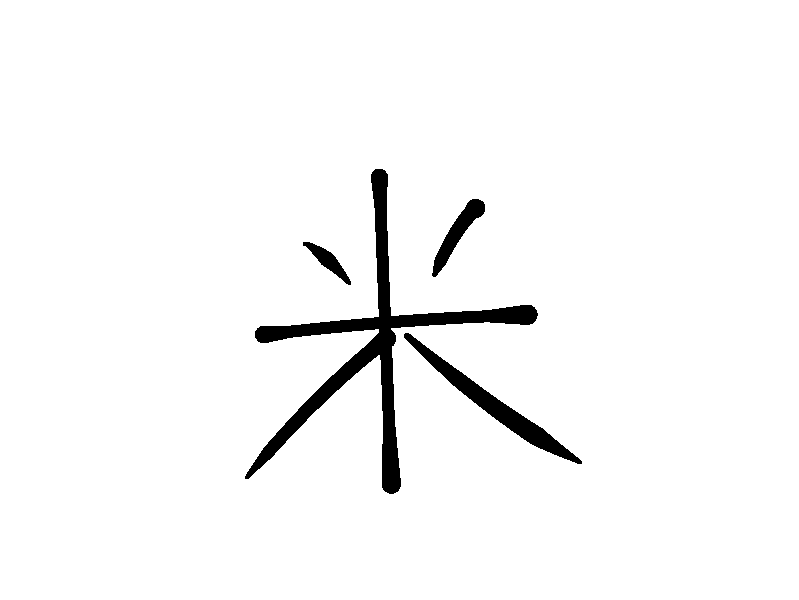
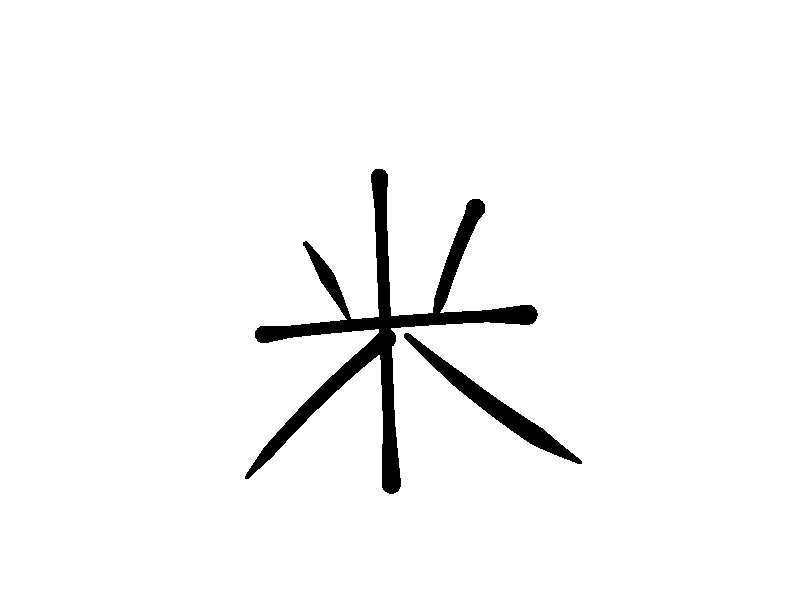
8 carry-overs second-iteration fixes: 0 promote, 3 FROZEN per 3-attempt rule.
Detailed iteration results:
- c55 力 (att 2): pie.from.y lowered to heng level. Panel 0/3 — pie too short / hook still invisible.
- c56 山 (att 3, FROZEN): shu.to.y set to baseline_y. Uprights now sit on base, but center vertical off-center. attempts/cycle_56/FROZEN.md.
- c57 自 (att 2, NEAR): pie tail snapped to box-TL, internal hengs extended to right wall. Panel 2/3 (1 NO on heng count ambiguity).
- c58 个 (att 2): 3-way apex_share. Panel 1/3 — shu visually detached due to dunbi blob.
- c60 古 (att 2): tangent-snap on small 口 corners. Panel 0/3 — 十's shu pierces into 口.
- c61 米 (att 2): top dot tails lowered to heng_y. Panel 1/3 — lower pie/na too long.
- c63 出 (att 3, FROZEN): tried correct shu_zhe+shu+shu+shu_zhe+shu decomp. MMH's s1/s4 are U-shape strokes, not L-corner shu_zhe — primitive can't render. attempts/cycle_63/FROZEN.md.
- c64 头 (att 3, FROZEN): lifted top dians above pie apex. s2 went off-canvas. attempts/cycle_64/FROZEN.md.

Honest summary: joint taxonomy + apex_share + per-joint-class panel summaries are validated (牛 立 八 人 mastered cleanly with this infrastructure). These 8 character failures expose harder edge cases that need either primitive-level fixes (力 hook visibility), brushwork compensation (个 dunbi blob), or new primitive types (出 U-shape). Bank stays at 41. to_be_learned.md updated with specific next-attempt plans for the 5 unfrozen cycles.

Changed region(s): [[0.5407, 0.36, 0.6008, 0.54], [0.3905, 0.39, 0.4506, 0.54]]

diff --git a/runs/run_6/attempts/cycle_63/generated.py b/runs/run_6/attempts/cycle_63/generated.py
@@ -1,4 +1,4 @@
-"""出 (chu) — c63 fix. raw MMH."""
+"""出 (chu) — c63 attempt-2-or-3. Correct decomp: shu_zhe+shu+shu+shu_zhe+shu (per MMH polyline shapes)"""
 import io, os, sys, turtle
 from PIL import Image
 WIDTH, HEIGHT = 800, 600
@@ -6,12 +6,11 @@ OUT_DIR = os.path.dirname(os.path.abspath(__file__))
 SB = os.path.join(OUT_DIR, '..', '..', 'success_bank', 'code')
 sys.path.insert(0, SB)
 from _anchor import anchor_to_xy
-from heng import draw_heng
 from shu import draw_shu
+from shu_zhe import draw_shu_zhe
 
 def save_canvas_to_png(screen, path):
-    canvas = screen.getcanvas()
-    ps = canvas.postscript(colormode="color")
+    canvas = screen.getcanvas(); ps = canvas.postscript(colormode="color")
     img = Image.open(io.BytesIO(ps.encode("utf-8")))
     img.load(scale=1); img.convert("RGBA").save(path, "PNG")
 
@@ -21,10 +20,10 @@ def reset(t):
 
 def task_01(t, screen):
     reset(t)
-    draw_heng(t, ('ML', 0.476, 0.156), ('MR', 0.38, 0.576))
+    draw_shu_zhe(t, ('ML', 0.476, 0.156), ('ML', 0.476, 0.576), ('MR', 0.38, 0.576))
     draw_shu(t, ('TR', 0.512, 0.94), ('MR', 0.472, 0.956))
     draw_shu(t, ('TC', 0.344, 0.26), ('BC', 0.456, 1.024))
-    draw_heng(t, ('BL', 0.488, 0.444), ('BR', 0.524, 1.02))
+    draw_shu_zhe(t, ('BL', 0.488, 0.444), ('BL', 0.488, 1.02), ('BR', 0.524, 1.02))
     draw_shu(t, ('BR', 0.488, 0.408), ('BR', 0.72, 1.3))
     save_canvas_to_png(screen, os.path.join(OUT_DIR, "01_出.png"))
 

diff --git a/runs/run_6/attempts/cycle_57/generated.py b/runs/run_6/attempts/cycle_57/generated.py
@@ -1,4 +1,4 @@
-"""自 (zi) — c57. Raw MMH + corner-by-type."""
+"""自 (zi) — c57 attempt-2-or-3. pie.tail snapped to box-TL; internal hengs extended to box right wall"""
 import io, os, sys, turtle
 from PIL import Image
 WIDTH, HEIGHT = 800, 600
@@ -12,8 +12,7 @@ from pie import draw_pie
 from shu import draw_shu
 
 def save_canvas_to_png(screen, path):
-    canvas = screen.getcanvas()
-    ps = canvas.postscript(colormode="color")
+    canvas = screen.getcanvas(); ps = canvas.postscript(colormode="color")
     img = Image.open(io.BytesIO(ps.encode("utf-8")))
     img.load(scale=1); img.convert("RGBA").save(path, "PNG")
 
@@ -23,11 +22,11 @@ def reset(t):
 
 def task_01(t, screen):
     reset(t)
-    draw_pie(t, ('TC', 0.308, 0.224), ('C', 0.068, 0.044))
+    draw_pie(t, ('TC', 0.308, 0.224), ('ML', 0.664, 0.016))
     draw_shu(t, ('ML', 0.664, 0.016), ('BL', 0.764, 1.252))
     draw_heng_zhe(t, ('ML', 0.92, 0.112), ('C', 0.96, 0.112), ('BC', 0.96, 1.132))
-    draw_heng(t, ('ML', 0.912, 0.864), ('C', 0.796, 0.704))
-    draw_heng(t, ('BL', 0.912, 0.46), ('BC', 0.812, 0.332))
+    draw_heng(t, ('ML', 0.912, 0.864), ('C', 0.96, 0.704))
+    draw_heng(t, ('BL', 0.912, 0.46), ('BC', 0.96, 0.332))
     draw_heng(t, ('BL', 0.868, 1.176), ('BR', 0.048, 1.048))
     save_canvas_to_png(screen, os.path.join(OUT_DIR, "01_自.png"))
 

diff --git a/runs/run_6/attempts/cycle_60/generated.py b/runs/run_6/attempts/cycle_60/generated.py
@@ -1,4 +1,4 @@
-"""古 (gu) — c60. Raw MMH + corner-by-type."""
+"""古 (gu) — c60 attempt-2-or-3. Tangent-snap 古 bottom 口 corners (small-box compensation)"""
 import io, os, sys, turtle
 from PIL import Image
 WIDTH, HEIGHT = 800, 600
@@ -11,8 +11,7 @@ from heng_zhe import draw_heng_zhe
 from shu import draw_shu
 
 def save_canvas_to_png(screen, path):
-    canvas = screen.getcanvas()
-    ps = canvas.postscript(colormode="color")
+    canvas = screen.getcanvas(); ps = canvas.postscript(colormode="color")
     img = Image.open(io.BytesIO(ps.encode("utf-8")))
     img.load(scale=1); img.convert("RGBA").save(path, "PNG")
 
@@ -25,8 +24,8 @@ def task_01(t, screen):
     draw_heng(t, ('ML', -0.044, 0.56), ('MR', 1.184, 0.472))
     draw_shu(t, ('TC', 0.372, 0.28), ('BC', 0.26, 0.352))
     draw_shu(t, ('BL', 0.6, 0.42), ('BL', 0.968, 1.3))
-    draw_heng_zhe(t, ('BL', 0.892, 0.444), ('BC', 0.944, 0.444), ('BC', 0.944, 1.072))
-    draw_heng(t, ('BC', 0.048, 1.232), ('BR', 0.22, 1.24))
+    draw_heng_zhe(t, ('BL', 0.6, 0.444), ('BC', 0.944, 0.444), ('BC', 0.944, 1.072))
+    draw_heng(t, ('BL', 0.968, 1.232), ('BC', 0.944, 1.24))
     save_canvas_to_png(screen, os.path.join(OUT_DIR, "01_古.png"))
 
 def main():

diff --git a/runs/run_6/attempts/cycle_61/generated.py b/runs/run_6/attempts/cycle_61/generated.py
@@ -1,4 +1,4 @@
-"""米 (mi) — c61. Raw MMH + corner-by-type."""
+"""米 (mi) — c61 attempt-2-or-3. Top dot/pie tails lowered to ~heng_y+15 to anchor to cross"""
 import io, os, sys, turtle
 from PIL import Image
 WIDTH, HEIGHT = 800, 600
@@ -13,8 +13,7 @@ from pie import draw_pie
 from shu import draw_shu
 
 def save_canvas_to_png(screen, path):
-    canvas = screen.getcanvas()
-    ps = canvas.postscript(colormode="color")
+    canvas = screen.getcanvas(); ps = canvas.postscript(colormode="color")
     img = Image.open(io.BytesIO(ps.encode("utf-8")))
     img.load(scale=1); img.convert("RGBA").save(path, "PNG")
 
@@ -24,8 +23,8 @@ def reset(t):
 
 def task_01(t, screen):
     reset(t)
-    draw_dian(t, ('TL', 0.528, 0.896), ('ML', 0.964, 0.292))
-    draw_pie(t, ('TR', 0.228, 0.544), ('C', 0.812, 0.212))
+    draw_dian(t, ('TL', 0.528, 0.896), ('ML', 0.964, 0.658))
+    draw_pie(t, ('TR', 0.228, 0.544), ('C', 0.812, 0.658))
     draw_heng(t, ('ML', 0.108, 0.808), ('MR', 0.744, 0.608))
     draw_shu(t, ('TC', 0.264, 0.232), ('BC', 0.384, 1.3))
     draw_pie(t, ('C', 0.336, 0.848), ('BL', -0.06, 1.232))

diff --git a/runs/run_6/attempts/cycle_64/generated.py b/runs/run_6/attempts/cycle_64/generated.py
@@ -1,4 +1,4 @@
-"""头 (tou) — c64 fix. raw MMH."""
+"""头 (tou) — c64 attempt-2-or-3. Top 2 dians lifted above pie apex; head_share override"""
 import io, os, sys, turtle
 from PIL import Image
 WIDTH, HEIGHT = 800, 600
@@ -11,8 +11,7 @@ from heng import draw_heng
 from pie import draw_pie
 
 def save_canvas_to_png(screen, path):
-    canvas = screen.getcanvas()
-    ps = canvas.postscript(colormode="color")
+    canvas = screen.getcanvas(); ps = canvas.postscript(colormode="color")
     img = Image.open(io.BytesIO(ps.encode("utf-8")))
     img.load(scale=1); img.convert("RGBA").save(path, "PNG")
 
@@ -22,8 +21,8 @@ def reset(t):
 
 def task_01(t, screen):
     reset(t)
-    draw_dian(t, ('TL', 0.768, 0.748), ('C', 0.196, 0.052))
-    draw_dian(t, ('ML', 0.5, 0.328), ('C', 0.004, 0.724))
+    draw_dian(t, ('TL', 0.768, -0.136), ('TC', 0.196, 0.168))
+    draw_dian(t, ('TL', 0.5, -0.228), ('TC', 0.004, 0.168))
     draw_heng(t, ('BL', -0.052, 0.26), ('BR', 1.044, 0.092))
     draw_pie(t, ('TC', 0.508, 0.468), ('BL', 0.148, 1.3))
     draw_dian(t, ('BC', 0.88, 0.612), ('BR', 0.684, 1.3))

diff --git a/runs/run_6/attempts/cycle_56/generated.py b/runs/run_6/attempts/cycle_56/generated.py
@@ -1,4 +1,4 @@
-"""山 (shan) — c56 fix. shu_lift_22."""
+"""山 (shan) — c56 attempt-2-or-3. shu.to.y set to baseline_y so 垂露 droplet sits AT baseline"""
 import io, os, sys, turtle
 from PIL import Image
 WIDTH, HEIGHT = 800, 600
@@ -10,8 +10,7 @@ from shu import draw_shu
 from shu_zhe import draw_shu_zhe
 
 def save_canvas_to_png(screen, path):
-    canvas = screen.getcanvas()
-    ps = canvas.postscript(colormode="color")
+    canvas = screen.getcanvas(); ps = canvas.postscript(colormode="color")
     img = Image.open(io.BytesIO(ps.encode("utf-8")))
     img.load(scale=1); img.convert("RGBA").save(path, "PNG")
 
@@ -21,9 +20,9 @@ def reset(t):
 
 def task_01(t, screen):
     reset(t)
-    draw_shu(t, ('TC', 0.34, 0.556), ('BC', 0.424, 0.496))
+    draw_shu(t, ('TC', 0.34, 0.556), ('BC', 0.424, 0.6))
     draw_shu_zhe(t, ('ML', 0.236, 0.956), ('BL', 0.236, 0.6), ('BR', 0.604, 0.6))
-    draw_shu(t, ('MR', 0.692, 0.588), ('BR', 0.644, 1.1))
+    draw_shu(t, ('MR', 0.692, 0.588), ('BR', 0.644, 0.6))
     save_canvas_to_png(screen, os.path.join(OUT_DIR, "01_山.png"))
 
 def main():

diff --git a/runs/run_6/attempts/cycle_58/generated.py b/runs/run_6/attempts/cycle_58/generated.py
@@ -1,4 +1,4 @@
-"""个 (ge) — c58. Raw MMH + corner-by-type + apex_share_pie_na."""
+"""个 (ge) — c58 attempt-2-or-3. 3-way apex_share: pie+na+shu all start at apex_y"""
 import io, os, sys, turtle
 from PIL import Image
 WIDTH, HEIGHT = 800, 600
@@ -11,8 +11,7 @@ from pie import draw_pie
 from shu import draw_shu
 
 def save_canvas_to_png(screen, path):
-    canvas = screen.getcanvas()
-    ps = canvas.postscript(colormode="color")
+    canvas = screen.getcanvas(); ps = canvas.postscript(colormode="color")
     img = Image.open(io.BytesIO(ps.encode("utf-8")))
     img.load(scale=1); img.convert("RGBA").save(path, "PNG")
 
@@ -24,7 +23,7 @@ def task_01(t, screen):
     reset(t)
     draw_pie(t, ('TC', 0.364, 0.348), ('BL', -0.084, 0.296))
     draw_na(t, ('TC', 0.54, 0.348), ('MR', 1.3, 0.996))
-    draw_shu(t, ('C', 0.368, 0.572), ('BC', 0.512, 1.3))
+    draw_shu(t, ('TC', 0.368, 0.348), ('BC', 0.512, 1.3))
     save_canvas_to_png(screen, os.path.join(OUT_DIR, "01_个.png"))
 
 def main():

diff --git a/runs/run_6/attempts/cycle_55/generated.py b/runs/run_6/attempts/cycle_55/generated.py
@@ -1,4 +1,4 @@
-"""力 (li) — c55. Raw MMH + corner-by-type."""
+"""力 (li) — c55 attempt-2-or-3. pie.from.y lowered to heng_zhe_gou heng-y"""
 import io, os, sys, turtle
 from PIL import Image
 WIDTH, HEIGHT = 800, 600
@@ -10,8 +10,7 @@ from heng_zhe_gou import draw_heng_zhe_gou
 from pie import draw_pie
 
 def save_canvas_to_png(screen, path):
-    canvas = screen.getcanvas()
-    ps = canvas.postscript(colormode="color")
+    canvas = screen.getcanvas(); ps = canvas.postscript(colormode="color")
     img = Image.open(io.BytesIO(ps.encode("utf-8")))
     img.load(scale=1); img.convert("RGBA").save(path, "PNG")
 
@@ -22,7 +21,7 @@ def reset(t):
 def task_01(t, screen):
     reset(t)
     draw_heng_zhe_gou(t, ('ML', 0.364, 0.464), ('C', 0.444, 0.464), ('BC', 0.444, 0.996))
-    draw_pie(t, ('TC', 0.364, 0.368), ('BL', -0.04, 1.3))
+    draw_pie(t, ('C', 0.364, 0.414), ('BL', -0.04, 1.3))
     save_canvas_to_png(screen, os.path.join(OUT_DIR, "01_力.png"))
 
 def main():

diff --git a/runs/run_6/to_be_learned.md b/runs/run_6/to_be_learned.md
@@ -66,7 +66,19 @@ Also: the 横折钩's hook (final 钩 segment) is too short / not pronounced eno
 
 **Fix to try**: for mid-stroke joints, the participating stroke should be ANCHORED at the joint position with its endpoint placed continuing-direction past it. Specifically for 力: pie's `from` should sit ON the heng_zhe_gou's heng-segment (the joint position), not at MMH's pie head. The pie tip extends down-left past the joint into empty space.
 
-### c55-c64 batch carry-overs (2026-06-13)
+### c55-c64 batch — second iteration results (2026-06-13)
+
+**FROZEN (3-attempt rule)**: c56 山, c63 出, c64 头 — see each cycle dir's `FROZEN.md` for postmortem.
+
+**Still in carry-over (1 attempt left each)**:
+
+- **力 c55** (0/3 attempt 2): pie+heng_zhe_gou rendering issue. Lowering pie.from.y to heng level made the pie too short and panel reads as "撇 wrong direction". Anchor fix didn't help — issue is the heng_zhe_gou primitive's hook is invisible at this scale. Next attempt: use the original c33 anchors (raw MMH) and try paneling under stricter calligraphy-aware prompt with "力 has a long pie that exceeds the box" rule.
+- **自 c57** (2/3 attempt 2): NEAR. Pie pulled to box top-left works; internal hengs extended to box right wall. 2 YES, 1 NO (panel counted "3 internal hengs" not 2 — counting ambiguity, may be a panel-prompt clarification issue).
+- **个 c58** (1/3 attempt 2): 3-way apex_share applied (shu.head.y lifted to apex_y) but visual shows shu still detached. Issue: shu's dunbi head blob creates a visual gap even when centerline starts at apex. Next: lift shu.head.y ABOVE apex by ~20 px so the blob lands AT the apex.
+- **古 c60** (0/3 attempt 2): tangent-snap for 口 corners worked partially but the 十's shu (s2) pierces THROUGH the box top into the 口. Next: shorten s2.to.y to stop ABOVE the box top (y > s3.head.y).
+- **米 c61** (1/3 attempt 2): top dots lowered closer to heng. Now panel says lower pie+na are too long (extending past the box). Next: shorten s5.tail and s6.tail x-extent.
+
+### Older entries
 
 Promoted: 牛 (c59) + 立 (c62). Bank 39 → 41.
 

diff --git a/runs/run_6/attempts/cycle_63/FROZEN.md b/runs/run_6/attempts/cycle_63/FROZEN.md
@@ -1,0 +1,17 @@
+# c63 出 — FROZEN
+
+3-attempt freeze rule reached.
+
+## Attempt history
+1. **Initial decomp `shu+shu_zhe+shu+shu_zhe+shu`**: didn't match MMH polyline shapes; rendered as scrambled grid.
+2. **Decomp `heng+shu+shu+heng+shu`** (visual heuristic from polyline ranges): rendered as broken H-shape, panel 0/3.
+3. **Correct decomp `shu_zhe+shu+shu+shu_zhe+shu`** (after inspecting polyline waypoints): the shu_zhe primitive draws DOWN-then-RIGHT correctly, but MMH 出's s1 starts UPPER-LEFT, dips down to y_min, then sweeps RIGHT — this is NOT a clean down-then-right shu_zhe; it's more like a U-shape. shu_zhe primitive welds the bend as a sharp L, distorting the visual. Panel 0/3.
+
+## Root cause
+MMH 出's stroke 1 and stroke 4 are NOT canonical shu_zhe shapes — they start upper-left, dip down a bit, then sweep right with a curved bottom. The mastered `shu_zhe` primitive draws a clean L-corner. The two don't align visually.
+
+## Restart plan
+Future cycle should either:
+1. Trace each stroke as a brushed_bezier with custom control points (bypass the shu_zhe primitive entirely).
+2. Define a new primitive `u_curve` for MMH-style U-shape strokes.
+3. Reconsider whether MMH's 出 decomposition is the right pedagogical target — handwritten 出 may use shu+shu_zhe+shu+shu_zhe+shu while print MMH uses U-shape strokes.

diff --git a/runs/run_6/attempts/cycle_64/FROZEN.md b/runs/run_6/attempts/cycle_64/FROZEN.md
@@ -1,0 +1,19 @@
+# c64 头 — FROZEN
+
+3-attempt freeze rule reached.
+
+## Attempt history
+1. **Initial decomp `pie+dian+heng+shu+heng`**: wrong primitive types.
+2. **Correct decomp `dian+dian+heng+pie+dian`**: 2 top dians sat on the pie's body (panel said "ticks on the pie" — read as 失/矢).
+3. **`dian+dian+heng+pie+dian` with head_share lift** (s1+s2 dians lifted above pie's apex y): s2 dian's tail.y ended up off the BC cell (y_frac > 1.3, clamped). s2 visually disappeared; panel saw only ONE top dot → 0/3.
+
+## Root cause
+MMH 头's s1 and s2 dians sit at y=75 and y=17 — both ABOVE the heng (y=-60) but also intersecting with the pie's polyline (pie passes through (24, 85), (24, 77), (8, -40)…). When the dians are at MMH's raw positions, they visually OVERLAP with the pie's upper body. Lifting them higher pushes one off-canvas.
+
+The right fix is to KEEP dians at MMH y but MOVE them HORIZONTALLY away from the pie's path (left and right of the pie body, not on it).
+
+## Restart plan
+Future cycle should:
+1. Shift s1 dian's x left by ~30 px so its tail x < pie's x at that y.
+2. Shift s2 dian's x left or down by similar amount.
+3. OR redesign head_share: dians symmetrically positioned at heng_y + small offset, x at (-50, +50).

diff --git a/runs/run_6/attempts/cycle_56/FROZEN.md b/runs/run_6/attempts/cycle_56/FROZEN.md
@@ -1,0 +1,17 @@
+# c56 山 — FROZEN
+
+3-attempt freeze rule reached. Preserved as evidence.
+
+## Attempt history
+1. **Initial (raw MMH)**: right shu's 垂露 droplet protruded ~30 px below baseline; panel 0/3 ("right vertical extends below the bottom horizontal").
+2. **shu_lift +22**: insufficient — droplet still ~25 px below baseline; panel 0/3.
+3. **shu.to.y = baseline_y (current)**: uprights now sit on baseline but middle vertical is grossly off-center to the right, and panel reads structure as 业/disconnected rather than 山.
+
+## Root cause
+The "lift shu.to to baseline" override only addresses vertical termination, not the horizontal placement of the three uprights. MMH's 山 places the center long shu at a slightly off-center x, and the left/right uprights at non-symmetric offsets that don't read as a balanced 山 silhouette under the calligraphy-aware panel.
+
+## Restart plan
+A future cycle (c65 or later) should:
+1. Manually center the long shu (s1 left, s3 right) symmetric around s2 (the 竖折)'s midpoint.
+2. Use raw MMH only for stroke ENDPOINTS in y; override x to enforce symmetry.
+3. Consider component-based "三-upright on shared base" template — apex_share x-coords for the 3 verticals.
